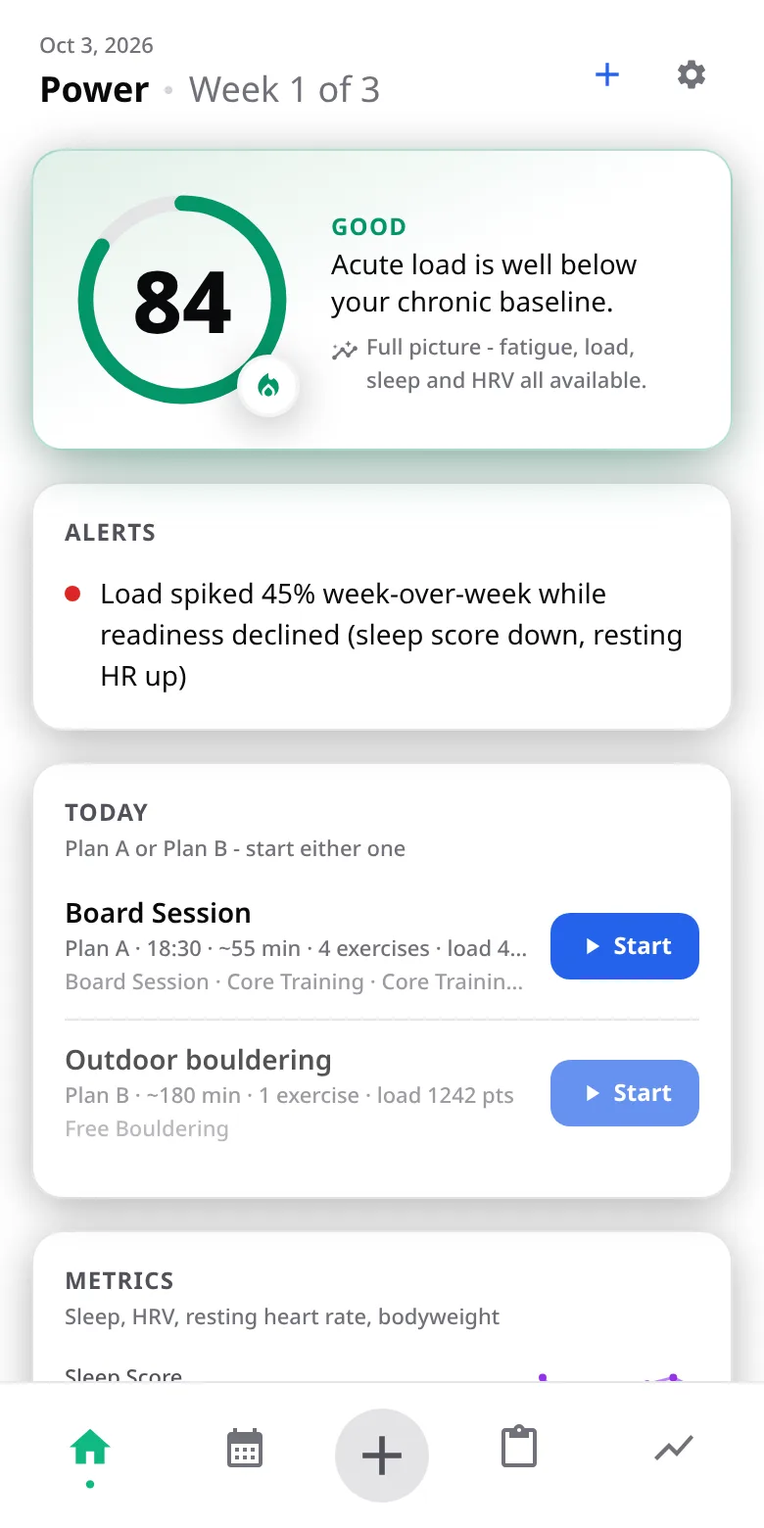
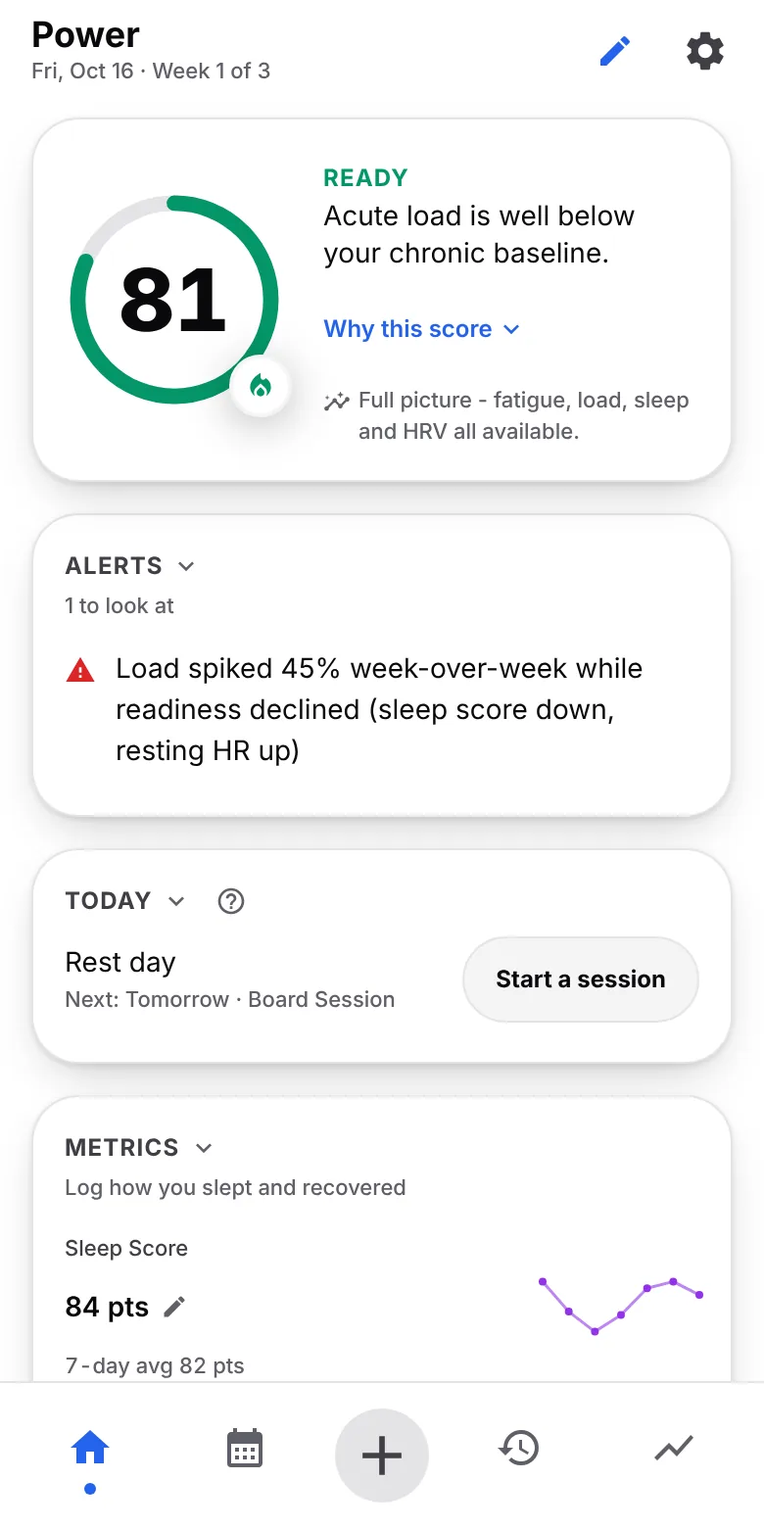
Docs: tour, help, README, website, privacy policy and screenshots brought up to date
Changelog: The tour covers the Phases page and the Weeks/Calendar button; the welcome and website screenshots show the current look; the privacy policy's settings paths are corrected.

diff --git a/public/privacy.html b/public/privacy.html
@@ -35,7 +35,7 @@
     <svg viewBox="0 0 24 24" aria-hidden="true"><rect width="24" height="24" rx="6" fill="#0a0a0b"/><path fill="#3b82f6" d="m14 6l-3.75 5l2.85 3.8l-1.6 1.2C9.81 13.75 7 10 7 10l-6 8h22z" transform="scale(0.8) translate(3,3)"/></svg>
     <h1>Privacy Policy</h1>
   </header>
-  <p class="meta">Boulder Tracker · Last updated 15 October 2026</p>
+  <p class="meta">Boulder Tracker · Last updated 29 October 2026</p>
 
   <div class="card">
     <p><strong>In short:</strong> Boulder Tracker has no accounts, no server, no ads and no analytics. Your training data stays on your device. If you switch on sync, a copy is kept in a private folder in <em>your own</em> Google Drive. The developer never receives any of your data.</p>
@@ -49,11 +49,11 @@
   <p>Uninstalling the app (or clearing the browser's site data) deletes it. Backups you export are files you create and keep yourself.</p>
 
   <h2 id="phone-calendar">Phone calendar (optional, Android)</h2>
-  <p>If you allow it under Settings → Data &amp; Exports → Phone calendar, the app asks Android for permission to read your calendars and shows their events beside your sessions on the Plan calendar. It only reads (it never writes to your calendar) and only for the days on screen. The events – titles, times, places, notes and which calendar they belong to – are read when needed, kept in memory, and are <strong>not</strong> saved in the app's data, backups or Drive sync. You can withdraw the permission at any time in Android's app settings or switch the feature off in the app.</p>
+  <p>If you allow it under Settings → Data &amp; connections → Phone calendar, the app asks Android for permission to read your calendars and shows their events beside your sessions on the Plan calendar. It only reads (it never writes to your calendar) and only for the days on screen. The events – titles, times, places, notes and which calendar they belong to – are read when needed, kept in memory, and are <strong>not</strong> saved in the app's data, backups or Drive sync. You can withdraw the permission at any time in Android's app settings or switch the feature off in the app.</p>
   <p>The one exception is the AI prompts, and only if you switch it on: see "AI prompts" below. It is off by default.</p>
 
   <h2>Google Drive sync (optional, Android)</h2>
-  <p>Sync is off until you connect a Google account under <em>Settings → Data &amp; Exports → Sync</em>. When you connect, the app asks Google for:</p>
+  <p>Sync is off until you connect a Google account under <em>Settings → Data &amp; connections → Sync &amp; backup</em>. When you connect, the app asks Google for:</p>
   <ul>
     <li><strong>Its own app folder in your Google Drive</strong> (<code>drive.appdata</code>) – a hidden folder only this app can use. The app cannot see, open or change any other file in your Drive.</li>
     <li><strong>Your email address</strong> – only to show which account is connected.</li>
@@ -63,7 +63,7 @@
   <p>Boulder Tracker's use and transfer of information received from Google APIs adheres to the <a href="https://developers.google.com/terms/api-services-user-data-policy">Google API Services User Data Policy</a>, including the Limited Use requirements. The data is used only to provide sync to you, is not transferred to anyone else, is not used for advertising, and is not read by any person.</p>
 
   <h2 id="health-connect">Health Connect (optional, Android)</h2>
-  <p>If you connect Health Connect under Settings → Data &amp; Exports, the app <strong>reads</strong> the data types you allow there: resting heart rate, weight and sleep sessions. It never writes to Health Connect. From them it stores one value per day on your device (resting heart rate, bodyweight and hours asleep), which feed your charts and readiness score, the same as values you enter yourself. If you asked for past data, earlier readings are imported too.</p>
+  <p>If you connect Health Connect under Settings → Data &amp; connections → Health Connect, the app <strong>reads</strong> the data types you allow there: resting heart rate, weight and sleep sessions. It never writes to Health Connect. From them it stores one value per day on your device (resting heart rate, bodyweight and hours asleep), which feed your charts and readiness score, the same as values you enter yourself. If you asked for past data, earlier readings are imported too.</p>
   <p>This data stays on your device and, if you turned on sync, in your own Google Drive app folder, as described above. It is not sent to the developer or anyone else, not used for advertising, and not used for anything but showing it to you. You can withdraw access at any time in Health Connect's settings; values already imported stay until you delete them.</p>
 
   <h2>App updates (Android)</h2>

diff --git a/public/about.html b/public/about.html
@@ -84,12 +84,12 @@
 
   <div class="shots" aria-label="Screenshots">
     <figure><img src="img/intro-home.webp" alt="Home: readiness score, today's sessions and alerts" width="780" height="1560" loading="lazy"><figcaption>Home: today and readiness</figcaption></figure>
-    <figure><img src="img/intro-plan.webp" alt="Plan: training phases by week, with a Plan B for uncertain days" width="780" height="1560" loading="lazy"><figcaption>Plan: phases and weeks</figcaption></figure>
-    <figure><img src="img/intro-analytics.webp" alt="Analytics: rolling load with the acute to chronic ratio" width="780" height="1560" loading="lazy"><figcaption>Analytics: load and recovery</figcaption></figure>
+    <figure><img src="img/intro-plan.webp" alt="Plan: the year as soft tiles coloured by training phase, with the selected week and a Plan B for uncertain days" width="780" height="1560" loading="lazy"><figcaption>Plan: phases and weeks</figcaption></figure>
+    <figure><img src="img/intro-analytics.webp" alt="Analytics: how the last three months went - sessions, hours, load, recovery - and what needs a look" width="780" height="1560" loading="lazy"><figcaption>Analytics: load and recovery</figcaption></figure>
   </div>
 
   <div class="grid">
-    <div class="card"><strong>Plan</strong><span>Training blocks and phases, weekly sessions from templates, goals and trips.</span></div>
+    <div class="card"><strong>Plan</strong><span>A timeline of your training phases, weeks and a day / week / month / year calendar with your sessions, goals, trips and your phone's events.</span></div>
     <div class="card"><strong>Live sessions</strong><span>Guided sessions with an interval and hangboard timer that keeps beeping in the background.</span></div>
     <div class="card"><strong>Readiness</strong><span>Sleep, HRV and resting heart rate with fatigue and load, as one daily score.</span></div>
     <div class="card"><strong>Analytics</strong><span>Load and ACWR, monotony and strain, finger load, recovery trends, benchmarks and sends.</span></div>
@@ -103,7 +103,7 @@
     <li>Tap <a href="android/stable/boulder-tracker.apk" download>Download the APK</a> and open the file when it finishes (browser download bar or your Files app).</li>
     <li>If Android asks, allow your browser to <strong>install unknown apps</strong>, then go back and tap Install.</li>
     <li>Play Protect may say it hasn't seen this app before, because it isn't from the Play Store. Tap <strong>More details → Install anyway</strong>.</li>
-    <li>Updates arrive inside the app (Settings → About → App updates), each checked against its checksum first.</li>
+    <li>Updates arrive inside the app (Settings → About &amp; Help → App updates), each checked against its checksum first.</li>
   </ol>
   <p>Want proof it's the code on GitHub? <a href="#verify">Check the build yourself</a>.</p>
   <p><strong>iPhone / iPad</strong>: open this page in <strong>Safari</strong>, tap Share → <strong>Add to Home Screen</strong>. In Chrome or Firefox on iOS, use the browser's menu or Share sheet for the same entry. (Links opened inside Reddit or other apps can't install; open them in Safari first.) iOS has no sync, reminders or widgets.</p>

diff --git a/src/lib/preferences/tunables.ts b/src/lib/preferences/tunables.ts
@@ -92,7 +92,7 @@ export const TUNABLES: TunableDef[] = [
   { id: "plan.weekGridClear", topic: "layout", group: "Plan calendar", label: "Clear week grid", hint: "Off: the Weeks view is soft rounded tiles in solid phase colours, with a number only on the week you picked and a dot on this week. On: every tile carries its week number and the picked week gets a firm outline. The High contrast theme always uses the clear one", kind: "boolean", default: false },
   { id: "plan.weekPatterns", topic: "layout", group: "Plan calendar", label: "Patterns on phases in the Weeks view", hint: "A fine pattern (lines, dots) on each phase's weeks and in its legend entry, so phases can be told apart without colour. The first phase stays plain", kind: "boolean", default: false },
   { id: "plan.goalsInCalendar", topic: "layout", group: "Plan calendar", label: "Goals card under the calendar", hint: "Off: the Goals list shows in the Weeks view only, and the calendar ends with the calendar. Goals still show in the calendar itself", kind: "boolean", default: true },
-  { id: "plan.calendarCategoryColors", topic: "layout", group: "Plan calendar", label: "Colour sessions by exercise category", hint: "Off: every session is the same green, and the colours belong to phases and to the phone calendar's events. On: each session takes the colour of the category that takes most of it", kind: "boolean", default: false },
+  { id: "plan.calendarCategoryColors", topic: "layout", group: "Plan calendar", label: "Colour sessions by exercise category", hint: "Off: every session is the same green, and the colours belong to phases and to the phone calendar's events. On: each session takes the colour of the category that takes most of it. The calendar's View button has Focus on sessions, which does this and greys the phone calendar's events (on by default)", kind: "boolean", default: false },
   { id: "day.startHour", topic: "layout", group: "Day", label: "New day starts at", hint: "Hour of the night (0 = midnight). Until then, after midnight still counts as the day before: no new-day reminders, metric or pain prompts, and Today stays on the day you are finishing. Sessions and logs keep their real time", kind: "number", default: 4, min: 0, max: 8, step: 1, unit: "h" },
   { id: "ui.clock12", topic: "layout", group: "Day", label: "12-hour clock", hint: "Times read 6:30 PM instead of 18:30 in the calendar, event sheets and session times. The time pickers follow your phone's own setting", kind: "boolean", default: false },
   { id: "timer.leadIn", topic: "layout", group: "Single-exercise timer", label: "Get-ready time", hint: "Counted in before a hang, set or pacer starts - an exercise can set its own", kind: "number", default: 10, min: 0, max: 60, step: 1, unit: "s" },

diff --git a/src/lib/settings/tree.ts b/src/lib/settings/tree.ts
@@ -68,10 +68,10 @@ export const SETTINGS_SECTIONS: SettingsSection[] = [
     hint: "Theme, units, Home, history and analytics",
     icon: "ic:baseline-color-lens",
     pages: [
-      { id: "general", label: "Look & feel", hint: "Theme, text size, navigation, help buttons, motion", icon: "ic:baseline-palette" },
+      { id: "general", label: "Look & feel", hint: "Theme, text size, cards, navigation, help buttons, motion", icon: "ic:baseline-palette" },
       { id: "units", label: "Units", hint: "Weight, temperature, grades, speed", icon: "ic:baseline-straighten" },
       { id: "home", label: "Home", hint: "Which cards show and in what order, quick log, list lengths", icon: "ic:baseline-home" },
-      { id: "planCalendar", label: "Plan calendar & day", hint: "Week as a list, phase strip, when a new day starts", icon: "ic:baseline-calendar-month" },
+      { id: "planCalendar", label: "Plan calendar & day", hint: "Week grid look, week as a list, phase strip, when a new day starts", icon: "ic:baseline-calendar-month" },
       { id: "history", label: "History & Analytics", hint: "Analytics cards, recovery chart, sends chart", icon: "ic:baseline-bar-chart" },
     ],
   },
@@ -204,6 +204,7 @@ const SEARCH_ENTRIES: SearchEntry[] = [
   { label: "Theme", page: "general", words: "dark light contrast colours" },
   { label: "Text size", page: "general", words: "font large small" },
   { label: "Navigation: automatic, side drawer or bottom bar", page: "general", words: "menu rail tabs icons labels hamburger phone tablet" },
+  { label: "Raised cards or flat panels", page: "general", words: "shadow cards panels flat sections look soft" },
   { label: "Help buttons", page: "general", words: "question mark explain" },
   { label: "Motion", page: "general", words: "animations reduced" },
   { label: "Weight, temperature and grade units", page: "units", words: "kg lb celsius fahrenheit font v-scale" },
@@ -211,6 +212,7 @@ const SEARCH_ENTRIES: SearchEntry[] = [
   { label: "Weekly targets", page: "targets", words: "sessions load finger days split category share goal aim" },
   { label: "Quick log (+) actions", page: "home", words: "pain bodyweight send benchmark test result" },
   { label: "Recent activity and test list lengths", page: "home" },
+  { label: "Week grid: soft tiles or numbered", page: "planCalendar", words: "weeks view dots rounded numbers clear outline contrast" },
   { label: "Week as a list", page: "planCalendar", words: "calendar week view columns agenda phone narrow" },
   { label: "Phase strip in the calendar", page: "planCalendar", words: "phase names month year lines" },
   { label: "When a new day starts", page: "planCalendar", words: "midnight night hour after midnight today" },

diff --git a/src/components/plan/TrainingPlan.svelte b/src/components/plan/TrainingPlan.svelte
@@ -43,6 +43,7 @@
   import { backWhile } from '../../lib/navigation/backStack.svelte';
   import { onDestroy, untrack } from 'svelte';
   import { planFocus } from '../../lib/plan/planFocus';
+  import { tour } from '../../lib/tour/tour.svelte';
   import { flashSession } from '../../lib/plan/flash';
 
   // --- Theme ---
@@ -78,8 +79,8 @@
   let view = $state<'blocks' | 'calendar'>((() => {
     try { return localStorage.getItem(VIEW_KEY) === 'calendar' ? 'calendar' : 'blocks'; } catch { return 'blocks'; }
   })());
-  /** Editing a Plan B happens in the block view, whatever was picked. */
-  const shownView = $derived(trainingState.planBEditing ? 'blocks' : view);
+  /** Editing a Plan B happens in the block view, whatever was picked - and the tour's Plan stops are all about it. */
+  const shownView = $derived(trainingState.planBEditing || tour.active ? 'blocks' : view);
   function setView(next: 'blocks' | 'calendar') {
     view = next;
     try { localStorage.setItem(VIEW_KEY, next); } catch { /* per-viewer convenience only */ }
@@ -484,12 +485,13 @@
       {#if !inPlanBMode}
         <!-- Weeks (phases and the selected week) or the calendar: one icon showing where it goes, in place of a row of its own. -->
         <button
-          onclick={() => setView(view === 'calendar' ? 'blocks' : 'calendar')}
+          onclick={() => setView(shownView === 'calendar' ? 'blocks' : 'calendar')}
           class="w-10 h-10 flex items-center justify-center text-content-subtle hover:text-content rounded-full hover:bg-surface-elevated/70 transition-colors"
-          aria-label={view === 'calendar' ? 'Show the weeks' : 'Show the calendar'}
-          title={view === 'calendar' ? 'Weeks: phases and the selected week' : 'Calendar: day, week, month and year'}
+          aria-label={shownView === 'calendar' ? 'Show the weeks' : 'Show the calendar'}
+          data-tour="plan-view"
+          title={shownView === 'calendar' ? 'Weeks: phases and the selected week' : 'Calendar: day, week, month and year'}
         >
-          <Icon icon={view === 'calendar' ? 'ic:baseline-widgets' : 'ic:baseline-calendar-month'} class="text-xl" />
+          <Icon icon={shownView === 'calendar' ? 'ic:baseline-widgets' : 'ic:baseline-calendar-month'} class="text-xl" />
         </button>
       {/if}
       <button

diff --git a/src/lib/tour/steps.ts b/src/lib/tour/steps.ts
@@ -66,13 +66,19 @@ export const TOUR_STEPS: TourStep[] = ([
     view: "plan",
     target: "plan-phase",
     title: "Phases",
-    body: "The phase the week follows, with its typical sessions - shown dashed until you change one, which saves just that session. Tap the phase to edit it: phases are ranges of days, so one can start mid-week.",
+    body: "The phase the week follows, with its typical sessions - shown dashed until you change one, which saves just that session. Tap the phase name to open the Phases page on that day: phases are ranges of days, so one can start mid-week.",
   },
   {
     view: "plan",
     target: "plan-sessions",
     title: "The week's sessions",
     body: "Tap a session to see it, start it or edit it. + adds one, and Arrange moves sessions between days.",
+  },
+  {
+    view: "plan",
+    target: "plan-view",
+    title: "Weeks or calendar",
+    body: "This button switches between the weeks (phases and the selected week's sessions) and a calendar with Day, Week, Month and Year views - your phone's events beside the sessions, drag a session to move it, and a View button for the layout and for greying the phone's events. Each opens on the day or session you were on.",
   },
   {
     view: "plan",
@@ -90,8 +96,8 @@ export const TOUR_STEPS: TourStep[] = ([
   {
     view: "plan",
     target: "plan-blocks",
-    title: "Training blocks",
-    body: "Plan several weeks at once: e.g. three weeks Strength, then a Deload week. The calendar above fills in from these.",
+    title: "Phases",
+    body: "A timeline of every phase. Tap one, then drag its ends to change the days, or split it, move it with everything after it, or repeat a cycle such as three weeks Strength then a Deload week. Days with no phase are listed so you can fill them.",
   },
   {
     view: "plan",
@@ -115,7 +121,7 @@ export const TOUR_STEPS: TourStep[] = ([
     view: "add",
     target: "add-plan",
     title: "Plan or test",
-    body: "Plan a session for another day, or record a test result like max pull-ups to track strength over time.",
+    body: "Plan a session for another day, log one you already did, record a test result like max pull-ups, or open the timer without a session."
   },
   {
     view: "history",

diff --git a/src/components/settings/DeviceCalendarSettings.svelte b/src/components/settings/DeviceCalendarSettings.svelte
@@ -28,7 +28,7 @@
     <div class="space-y-1 px-1">
       <h2 class="text-section uppercase text-content-muted">Phone calendar</h2>
       <p class="text-caption text-content-subtle leading-relaxed">
-        Shows the events from your phone's calendars (Google, Samsung, any account it syncs) beside your sessions on the Plan calendar, so you can plan around them. Read-only: nothing is written to your calendar. The events stay on this phone - never in backups or sync. The AI coach sees their titles and times only if you switch that on under What the AI sees (off by default).
+        Shows the events from your phone's calendars (Google, Samsung, any account it syncs) beside your sessions on the Plan calendar, so you can plan around them. The calendar's View button switches single calendars on or off and has Focus on sessions, which greys the events. Read-only: nothing is written to your calendar. The events stay on this phone - never in backups or sync. The AI coach sees their titles and times only if you switch that on under What the AI sees (off by default).
       </p>
     </div>
 

diff --git a/src/lib/help/glossary.ts b/src/lib/help/glossary.ts
@@ -93,7 +93,7 @@ export const GLOSSARY: Record<TermId, Term> = {
     where: "phases",
     paragraphs: [
       "A phase is a kind of training (Capacity, Strength, Power…) with a typical set of sessions, which appear on the days it covers.",
-      "A training block puts a phase on a run of days - it can start or end mid-week, so a week can hold two. Phases are edited in the Block manager (tap a phase name on the Plan). You can still change any single session; only that session is affected.",
+      "A training block puts a phase on a run of days - it can start or end mid-week, so a week can hold two. Phases are edited on the Phases page: a timeline where you drag a phase's ends, split it, move it or repeat a cycle (open it with the phases button in Plan, or by tapping a phase name on the week card). You can still change any single session; only that session is affected.",
       `The phases' sessions can be edited under ${settingsPath('phases')}, where you can also switch between the Getting started and Advanced sets.`,
     ],
   },

diff --git a/src/lib/releaseNotes.ts b/src/lib/releaseNotes.ts
@@ -20,6 +20,13 @@ export interface ReleaseNote {
 
 export const RELEASE_NOTES: ReleaseNote[] = [
   {
+    id: "2026-10-29-tour-and-screens",
+    title: "Tour, help and screenshots brought up to date",
+    points: [
+      "The tour now covers the Phases page and the Weeks / Calendar button, and always shows the Weeks view. The help for phases, the settings search and the Welcome and website screenshots match the new look.",
+    ],
+  },
+  {
     id: "2026-10-29-plan-handoff",
     title: "Weeks and Calendar remember where you were",
     points: [

diff --git a/src/components/onboarding/IntroSlides.svelte b/src/components/onboarding/IntroSlides.svelte
@@ -7,7 +7,7 @@
    */
   const SLIDES = [
     { src: './img/intro-home.webp', title: 'Home', text: "Today's session, readiness and what needs a look." },
-    { src: './img/intro-plan.webp', title: 'Plan', text: 'Phases and weeks, with a Plan B for uncertain days.' },
+    { src: './img/intro-plan.webp', title: 'Plan', text: 'Phases, weeks and a calendar, with a Plan B for uncertain days.' },
     { src: './img/intro-analytics.webp', title: 'Analytics', text: 'Load, fatigue and progress over time.' },
   ];
 

diff --git a/docs/HANDOVER.md b/docs/HANDOVER.md
@@ -9,7 +9,7 @@ For whoever (a person, or another Claude session) picks this project up. Written
 ```
 src/lib/           logic (pure where possible, tested)   src/components/   Svelte screens and widgets
   planning/ phases, projection, calendar helpers          nav/    AppBar, NavDrawer, NavRail, Fab
-  storage/  persistence, migrations, import/export        plan/   Plan screen, calendar views, Block manager
+  storage/  persistence, migrations, import/export        plan/   Plan screen, calendar views, Phases page
   stores/   reactive stores (state.svelte.ts composes)    dashboard/ Home   history/   analytics/   settings/
   ai/       AI coach: prompts, change-set schema, planner workout/ live session, workout modal
   sync/     Google Drive sync (per-device docs, merge)
@@ -35,7 +35,7 @@ stuff/   Nathan's private files - GIT-IGNORED, never commit or publish anything 
 - `.github/workflows/deploy.yml`: every push to `main` builds the web app and a signed Android APK and deploys one Pages site: `/` web app, `/android/` **Testing** channel (every push), `/android/stable/` **Stable** (promote by hand: Actions → this workflow → mode "promote"; copies the live test APK byte-for-byte).
 - The APK is signed with Nathan's own key from repo secrets - **never switch keys** (a different key = Android sees a different app = uninstall = data loss; also the Drive OAuth client's SHA-1). `versionCode` = `git rev-list --count HEAD`; never change that. See `docs/signing.md`, `scripts/app-version.mjs`.
 - The in-app updater (`plugins/app-updater`, `src/lib/update/`) installs APKs after checking SHA-256 and writing a safety backup.
-- Data version `DATA_EXPORT_VERSION` is **3.36** (`src/lib/constants.ts`). A bump means every device must update before Drive sync resumes (devices on an older version refuse to merge with a newer one - `SyncVersionError`; older docs are upgraded forward through the same migrations).
+- Data version `DATA_EXPORT_VERSION` is **3.37** (`src/lib/constants.ts`). A bump means every device must update before Drive sync resumes (devices on an older version refuse to merge with a newer one - `SyncVersionError`; older docs are upgraded forward through the same migrations).
 
 ## Data model facts you will trip over
 
@@ -48,7 +48,7 @@ stuff/   Nathan's private files - GIT-IGNORED, never commit or publish anything 
 - **Settings architecture**: thresholds → `preferences/tunables.ts` registry; per-card Home options → `preferences/homeDetails.ts`; ordered/hideable lists → `validateOrderedToggles`; units are canonical in storage (°C, kg, km/h, Font grades) and converted at the edges. Preferences are in localStorage (`preferences/migrate.ts` validates); `preferences/portable.ts` lists the ones that sync - new settings are device-local unless added there (`navStyle` is deliberately device-local).
 - **Back navigation**: every sheet/modal/sub-page calls `backWhile(() => open, close)` (`navigation/backStack.svelte.ts`); the Android back key closes the top entry, and from any tab goes Home. `lib/ui/dialogLayer.ts` makes any `fixed inset-0 z-[100+]` overlay a dialog (page behind inert, Escape closes).
 - **AI coach** (`src/lib/ai`): copy-paste prompt → JSON change set (`changeSet.ts` validates, `changePlanner.ts` plans, a tickable review applies, plan undo restores). The contract is documented *to the model* in `changeSetPrompt.ts` - keep it in step with the validator (a test checks the field lists). Phases for exact days: `fromDate`/`toDate` week entries.
-- **Calendar** (Plan → calendar icon): `components/plan/PlanCalendar.svelte` and friends; pure logic in `planning/calendarEvents.ts`, `sessionColors.ts` (one session colour; category colours behind `plan.calendarCategoryColors`), `calendarZoom.ts` (pinch / ctrl+wheel), `calendarDrag.ts` (hold-and-drag reschedule), `headerBars.ts` (trips, competitions and all-day / multi-day / 12 h+ phone events as bars above the grid, `capBars` for the "+N" row), `goalBars.ts` (`goalsByDay`), `phaseStrip.ts`; `calendar/eventColor.ts` (event colours turned away from the session green, your own pick used as chosen). Android phone-calendar overlay: `plugins/device-calendar`, `lib/calendar/`.
+- **Calendar** (Plan → the calendar icon in the top bar): `components/plan/PlanCalendar.svelte` and friends; pure logic in `planning/calendarEvents.ts`, `sessionColors.ts` (one session colour; category colours behind `plan.calendarCategoryColors`), `calendarZoom.ts` (pinch / ctrl+wheel), `calendarDrag.ts` (hold-and-drag reschedule), `headerBars.ts` (trips, competitions and all-day / multi-day / 12 h+ phone events as bars above the grid, `capBars` for the "+N" row), `goalBars.ts` (`goalsByDay`), `phaseStrip.ts`; `calendar/eventColor.ts` (event colours turned away from the session green, your own pick used as chosen). Android phone-calendar overlay: `plugins/device-calendar`, `lib/calendar/`.
 - **Navigation** (new): `AppBar` at the top of every screen (must be the screen root's first child), side drawer on phones, rail on wide/landscape, floating + (`Fab.svelte`), bottom bar kept as a per-device setting (`navStyle`). Plan and decisions: `docs/navigation-plan.md`.
 
 ## Where things stand (end of 2026-10-14)
@@ -71,7 +71,7 @@ Everything below is on `main`, pushed to Testing, **not yet tried on a real devi
 2. ~~The floating + covers content~~ - done 2026-10-15: it hides while scrolling down and returns on scrolling up (`lib/navigation/scrollHide.ts`).
 3. Wide-screen layouts for Home, History and Analytics (two columns of cards, master-detail like Samsung Calendar's Day + event pane) - they are a centred ~640 px column on tablets/laptops. Listed under "Later" in `navigation-plan.md`.
 4. ~~Week view on a portrait phone~~ - done 2026-10-15: the list is the default on a portrait phone (setting `plan.weekListOnPhone`).
-5. The welcome slides and README screenshots (`public/img/intro-*.webp`, `og.jpg`) show the old bottom-bar UI - regenerate when the look settles.
+5. ~~The welcome slides and README screenshots show the old UI~~ - regenerated 2026-10-29 from the example data (`public/img/intro-*.webp` are 780x1560 crops, the example-data banner cut off; `og.jpg` is the three of them composed). Regenerate again when the look changes; the recipe is in the 2026-10-29 note below.
 6. Search in the top bar, long-press on the + for a speed dial (quick timer), a mark per week in the Year view for phases was replaced by lines (done) - nothing else open there.
 7. The Goals card under the calendar is still a bordered card.
 8. Older plan/QA/audit docs (`pre-release-evaluation.md`, `android-backup-audit.md`) are historical; `qa-checklist.md` is the living one.
@@ -90,6 +90,15 @@ Nathan's list from using the app, all built on branch `claude/ui-ux-issues-navig
 - Not verified on a device: the notification buttons (Java was written, **not compiled** - no Android SDK in the cloud session; the page side is tested headless and by unit tests), Android back with the new sheets, haptics.
 - The cloud sandbox blocks `api.iconify.design`, so `npm test` reports one unhandled error from `offlineIcons.test.ts` (the icon generator can't fetch); all tests pass. No new icons were added.
 - Still open from the audit: the year grid's week cells are 26 px; the Plan session section's own + duplicates the floating one; History/Analytics wide layouts.
+
+### Session of 2026-10-29 (Phases page, light look, calmer Plan; all on `main`, none tried on a phone)
+
+- **Phases page** (`PhasePlanner.svelte` + `PhaseTimeline.svelte`, pure ops in `planning/phaseTimeline.ts`) replaced the Block manager: timeline, drag/snap, split, move (+ everything after), repeat, cycle presets, gaps from today on (ignorable, `plan.ignoredGaps` in localStorage), "how it went", Ask the AI. Log in `phase-days-plan.md` (stage 5).
+- **Plan calendar**: one **View** button (`CalendarOptions.svelte`: week layout, Focus on sessions - now on by default, phone calendars), the Weeks/Calendar switch is a top-bar icon, `planFocus` (`lib/plan/planFocus.ts`) hands the day/session between the two views (scrolls and flashes it).
+- **Light look** (from Nathan's old screenshots): `ui.raisedCards` (default on), soft `btn-secondary` pill, dot under the active bottom-bar tab, soft week grid (`plan.weekGridClear` off). Card edge: a thin tint of the text colour plus a firmer shadow; `contrast` theme keeps outlines.
+- **Declutter**: the Weeks legend is one scrolling row; Analytics range + arrows share a row; Log a past session lives on the Log screen (Past session tile).
+- **Docs/screenshots** brought up to date this day: tour (`steps.ts`: Phases, a Weeks/Calendar step; the tour forces the Weeks view), glossary, README, `public/about.html`, `public/privacy.html` (paths renamed to "Data & connections", date bumped), settings hints and search, QA section 25.
+- **Regenerating the screenshots**: `npx vite --port 5199`, then a headless script (see `scripts/headless/`): start the example data (`tour.startExample()`), `welcomeDone = true`, 390x841 at scale 2, light theme, navigate Home / Plan (Weeks view) / Analytics, crop the top 122 px (the example banner) and keep 780x1560, save as webp (quality ~82). Traps found: **kill leftover `chrome` processes first** (`pkill -x chrome`) - a stale one still on port 9333 answers instead of the new one and every screenshot is the same old page; and after files were edited the page's modules are served as `...ts?t=<stamp>`, so take both `state.svelte.ts` and `tour.svelte.ts` URLs from `performance.getEntriesByType('resource')` (last match) rather than importing by plain path.
 
 ## Checking a change in a browser (no extra tooling)
 

diff --git a/README.md b/README.md
@@ -68,7 +68,7 @@ Found a bug, or want something? Open an [issue](https://github.com/NZumbusch/bou
 
 ## What it does
 
-- **Plan**: phases with a typical week each, training blocks that assign phases to weeks, and per-week edits on top. Goals (competitions and outdoor trips, with projects) sit on the same calendar.
+- **Plan**: phases with a typical week each, and per-week edits on top. Two views of the same plan, one icon apart and each opening on the day you were on: **Weeks** (the year as tiles coloured by phase, the selected week's sessions below) and a **Calendar** (day, week, month, year, with trips and competitions, your phone's events beside the sessions, drag to reschedule, and a *Focus on sessions* mode that greys the phone's events). The **Phases** page is a timeline of every phase: drag its ends, split, move, repeat a cycle such as three weeks plus a deload, and see days that have no phase. Goals (competitions and outdoor trips, with projects) sit on the same calendar.
 - **Train**: a live session with a timer, interval and set runs, logging each exercise against its target. Any session opens in one full-screen view: start it, edit it in place, or log it as planned.
 - **Home**: readiness (fatigue, load ratio, sleep, HRV), today's sessions, the week so far, the current block, the next goal, weather and rock conditions at home and your crags, alerts, and progress. Every card can be reordered or hidden.
 - **History and sends**: completed sessions and outdoor sends (8a.nu CSV import) with shared filters, and a grade chart.
@@ -138,9 +138,9 @@ What the web app can't do, on iOS in particular: scheduled reminders, timer beep
 
 ### Android app updates
 
-The same workflow builds a signed release APK and publishes it with `android/version.json` under https://bouldertracker.nathanzumbusch.de/android/. The app checks that file on start (Settings → About → App updates), offers newer builds on Home, downloads the APK, checks its SHA-256 and opens Android's installer (`plugins/app-updater`, `src/lib/update/`). The build number is the commit count on `main`, so CI builds and Android Studio builds of the same commit match.
+The same workflow builds a signed release APK and publishes it with `android/version.json` under https://bouldertracker.nathanzumbusch.de/android/. The app checks that file on start (Settings → About & Help → App updates), offers newer builds on Home, downloads the APK, checks its SHA-256 and opens Android's installer (`plugins/app-updater`, `src/lib/update/`). The build number is the commit count on `main`, so CI builds and Android Studio builds of the same commit match.
 
-Two channels, chosen in the app (Settings → About → App updates): **Testing** gets every push to `main` (`/android/`); **Stable** only promoted builds (`/android/stable/`). To promote: Actions → "Deploy web app and Android update to Pages" → Run workflow → mode `promote`. It takes the test build that's live - the exact APK, checked against its SHA-256 - and stores it as the assets of the `stable-channel` release, which every deploy copies back into the site. New installs default to Stable; a device switched to Stable while ahead of it waits for the next stable build newer than its own (Android can't downgrade).
+Two channels, chosen in the app (Settings → About & Help → App updates): **Testing** gets every push to `main` (`/android/`); **Stable** only promoted builds (`/android/stable/`). To promote: Actions → "Deploy web app and Android update to Pages" → Run workflow → mode `promote`. It takes the test build that's live - the exact APK, checked against its SHA-256 - and stores it as the assets of the `stable-channel` release, which every deploy copies back into the site. New installs default to Stable; a device switched to Stable while ahead of it waits for the next stable build newer than its own (Android can't downgrade).
 
 Signing needs four repository secrets (Settings → Secrets and variables → Actions); without them only the web app deploys:
 
